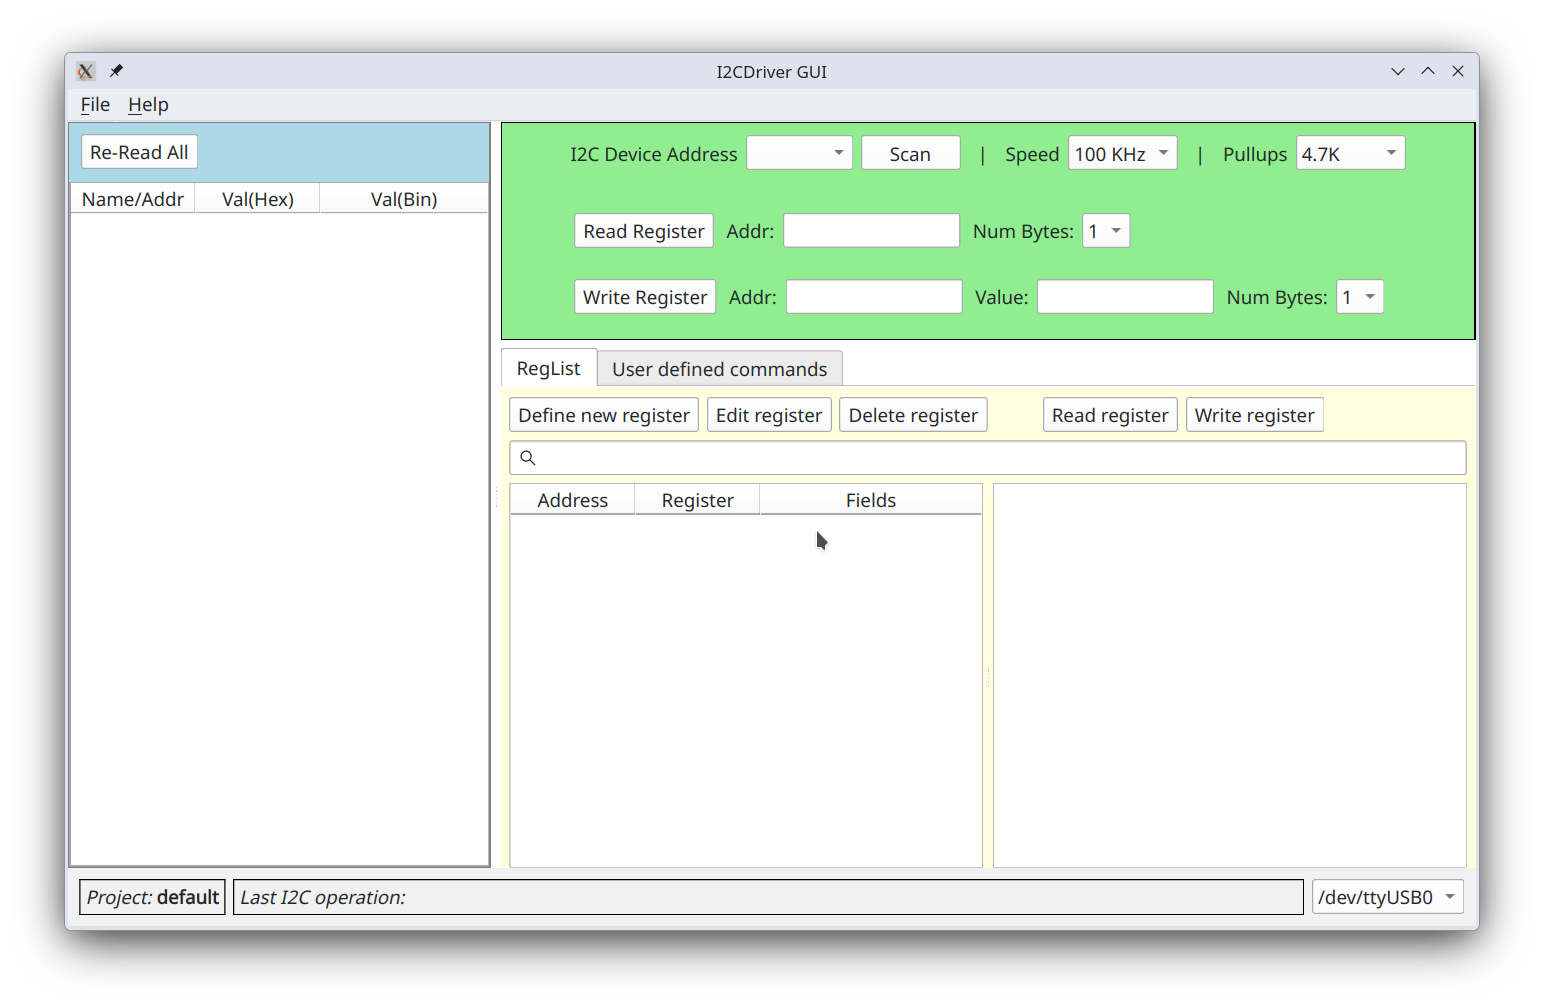
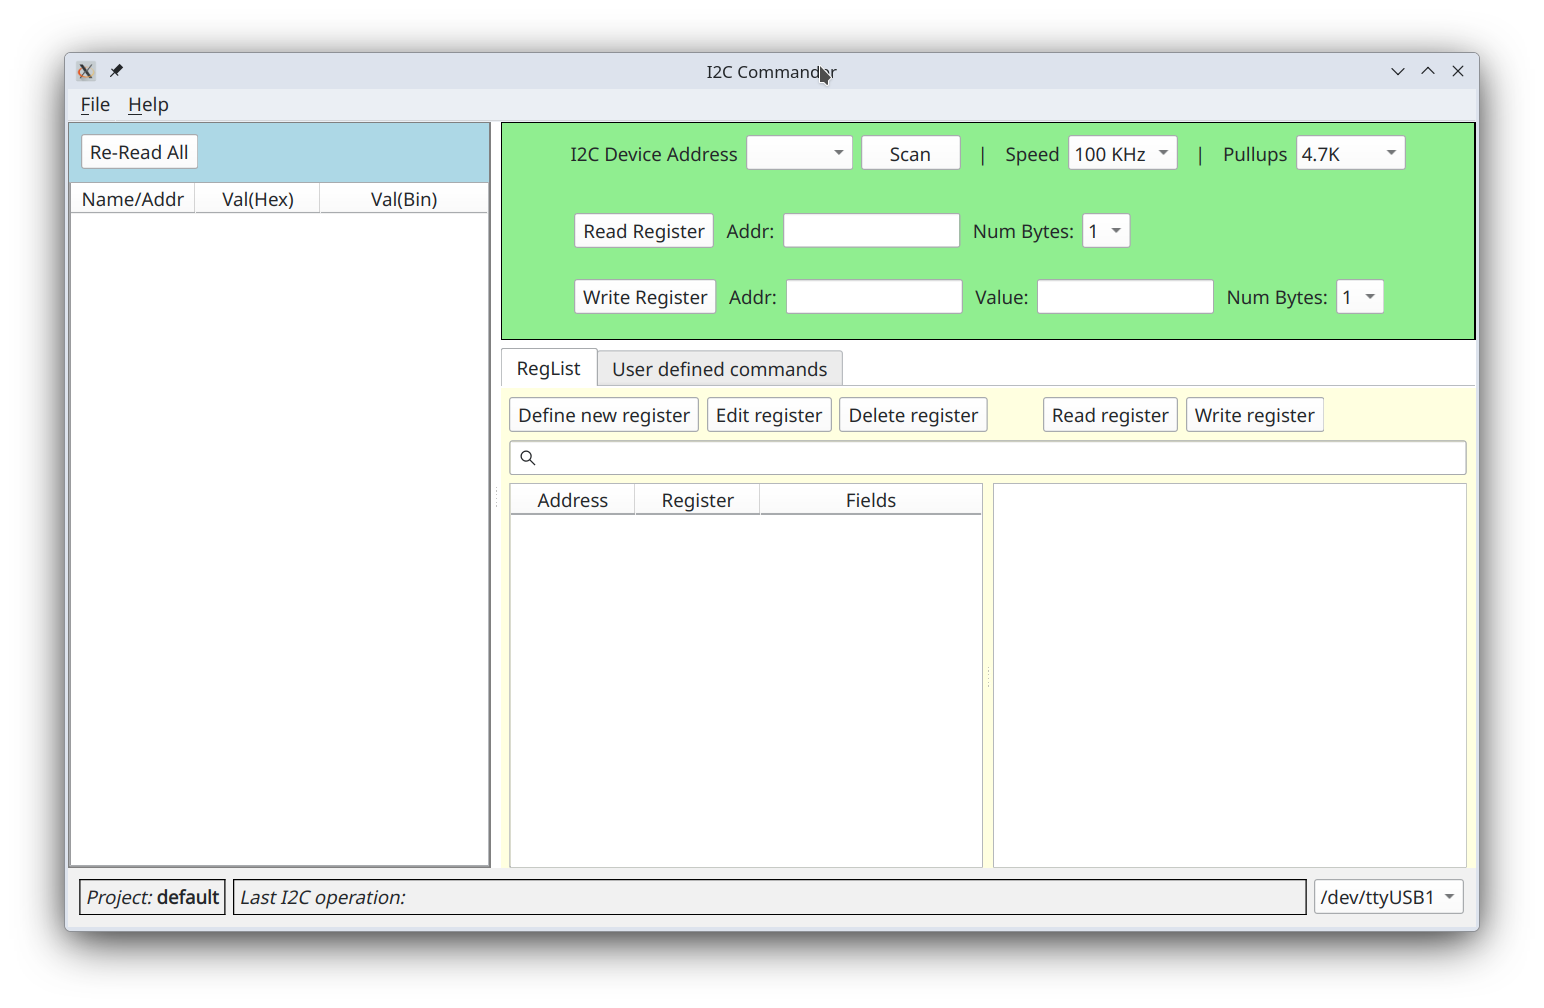
More docs

diff --git a/src/i2cc/main.py b/src/i2cc/main.py
@@ -66,7 +66,7 @@ class InfoPanel(HBoxPanel):
 class I2CDriverWindow(MainWindow):
     def __init__(self, screen_dim: tuple[int, int], app: App):
         super().__init__(
-            objectName="MainWindow", windowTitle="I2CDriver GUI", css="QMainWindow { background-color: #ffffff; }"
+            objectName="MainWindow", windowTitle="I2C Commander", css="QMainWindow { background-color: #ffffff; }"
         )
         set_geometry(
             app_state=app.persistence.state,

diff --git a/docs/bare_i2c.md b/docs/bare_i2c.md
@@ -65,6 +65,12 @@ value into results panel.
 
 ![](images/write-register-results.png)
 
+Now that there are more than one register in the results panel it might make sense to be able to re-read all of them
+by clicking on _Re-Read All_ button. Double-clicking on any row there will also re-read selected register.
+
+Right mouse click will get you context menu.
+
+![](images/results-panel-context-menu.png)
 
 ## Links
 
